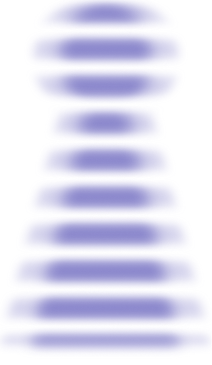
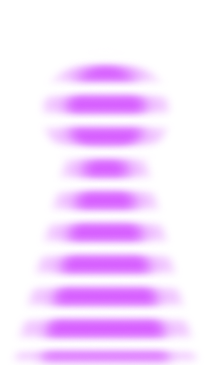
piezas ajedrez futurista

diff --git a/src/components/App.jsx b/src/components/App.jsx
@@ -29,7 +29,7 @@ let escapp;
 
 const initialConfig = {
   config: {
-    theme: THEMES.ANCIENT,
+    theme: THEMES.FUTURISTIC,
     solutionLength: 4,
   },
   box: CONFIG.CUSTOMBOX,
